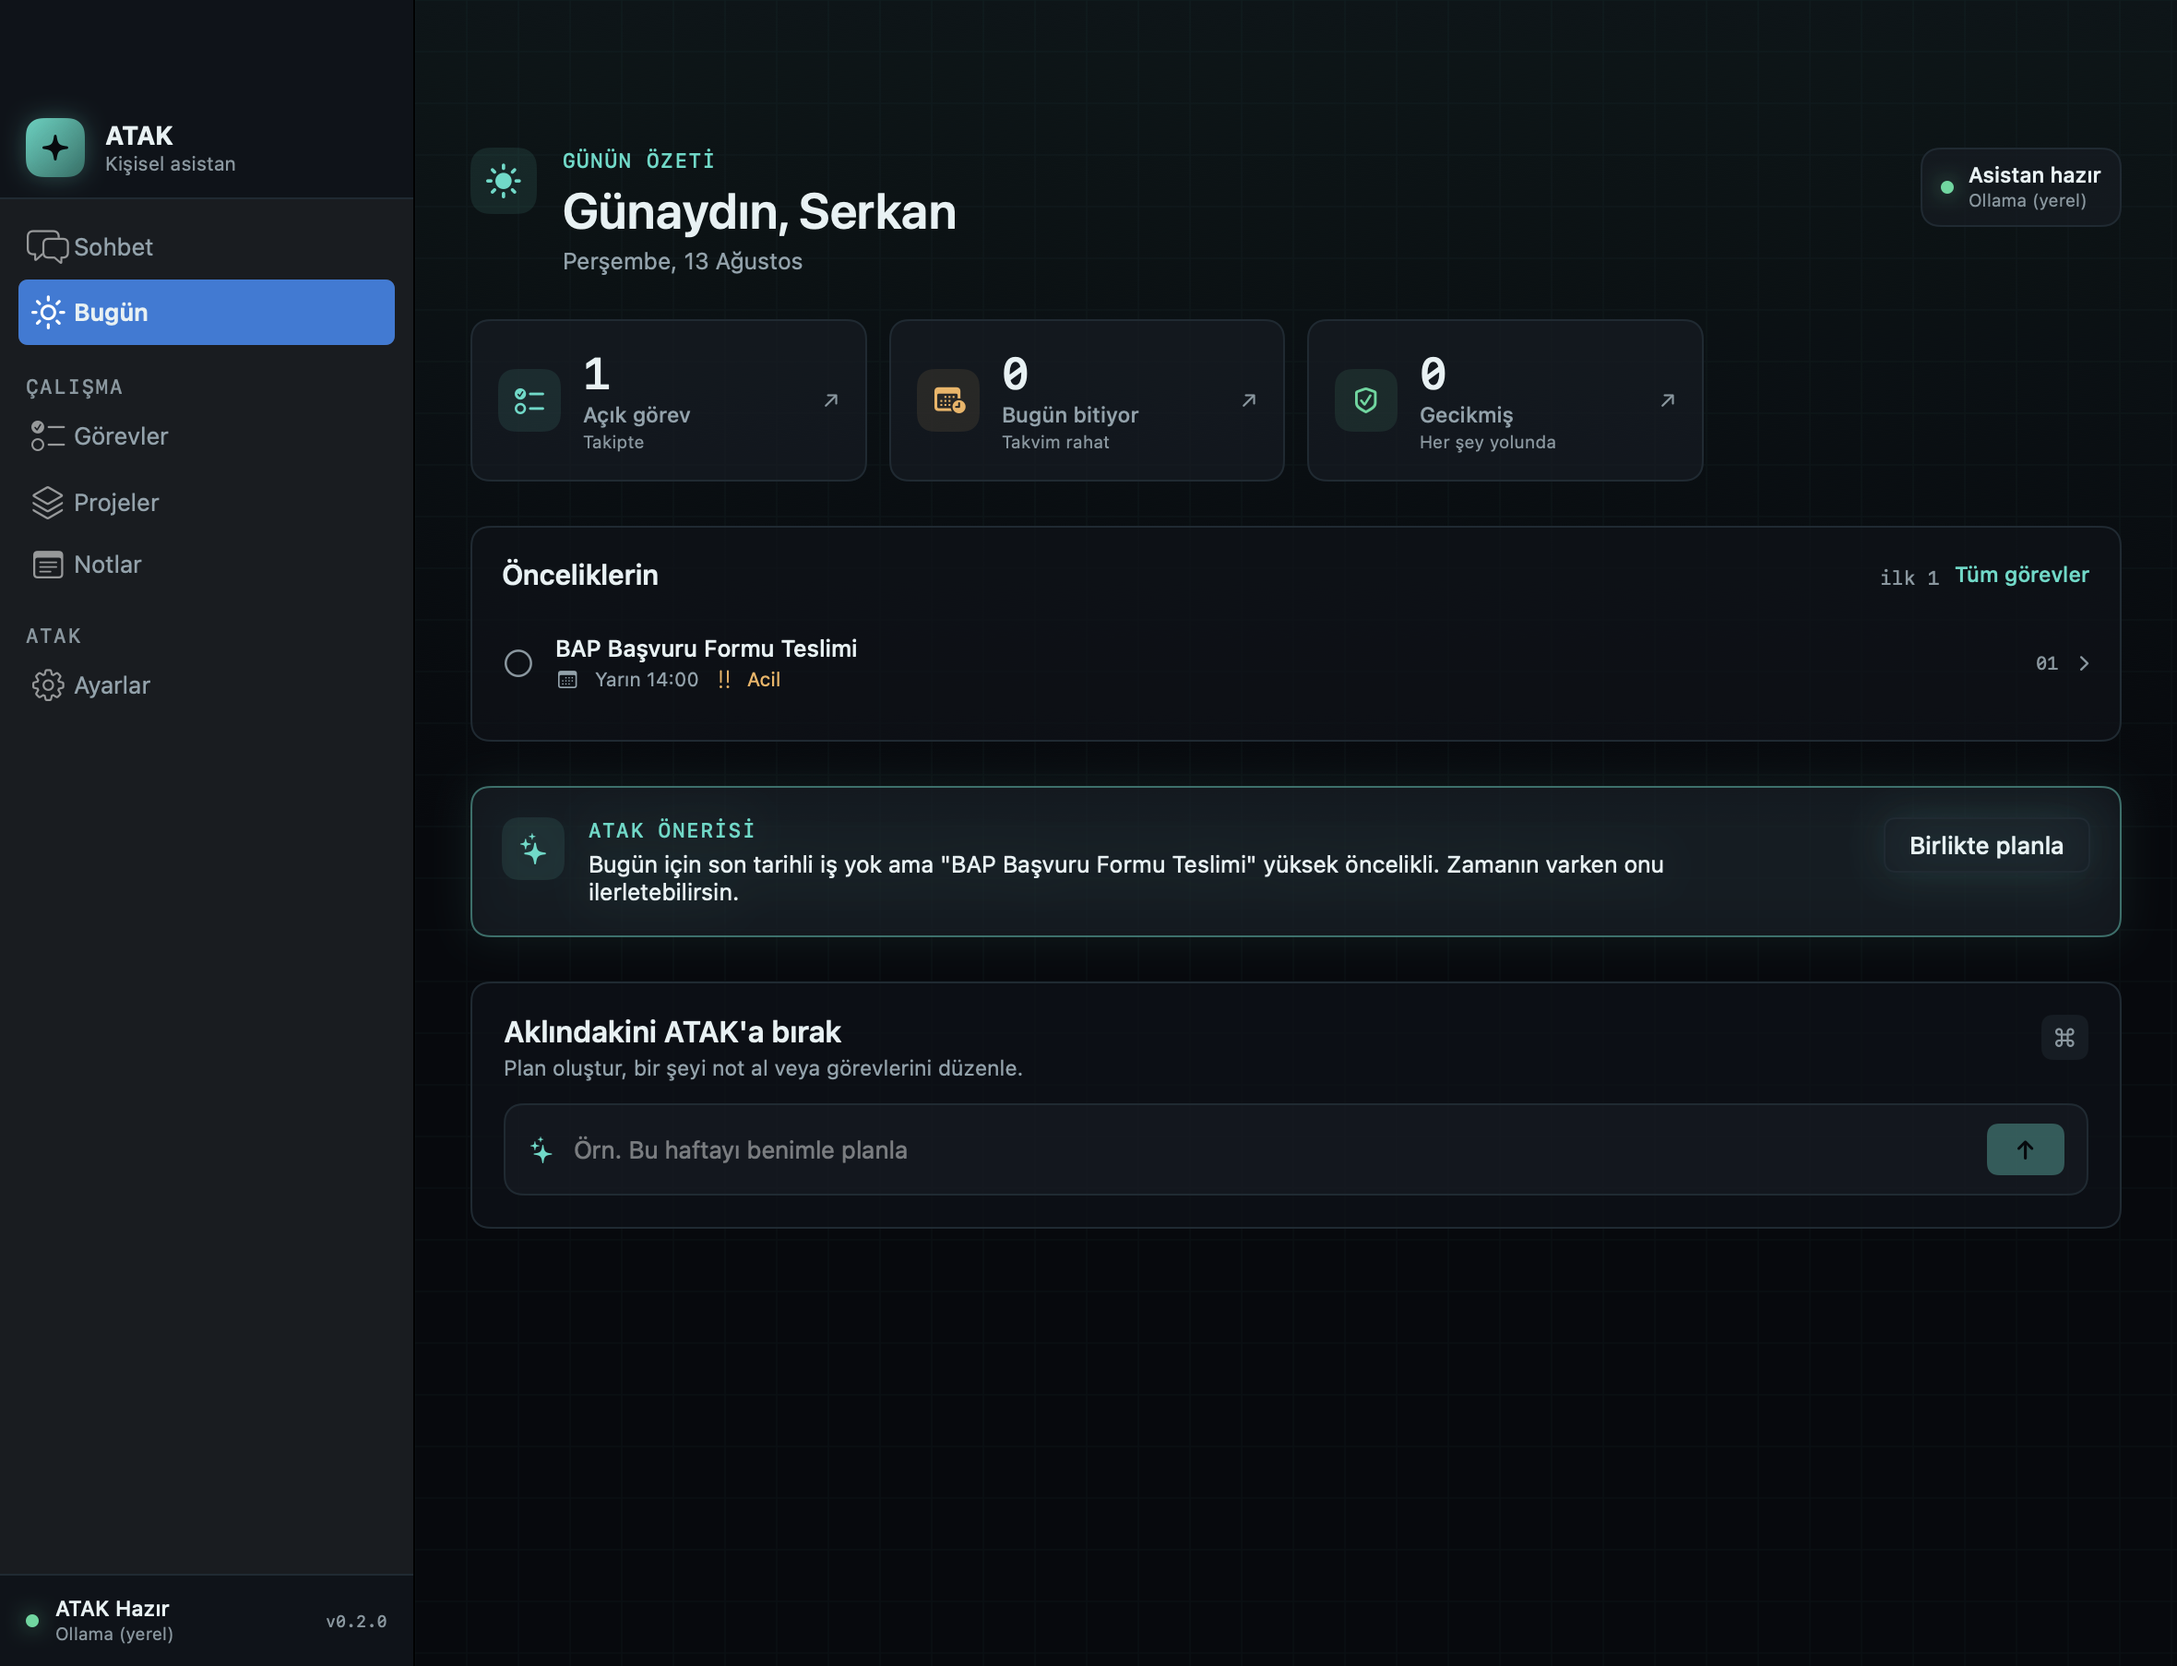
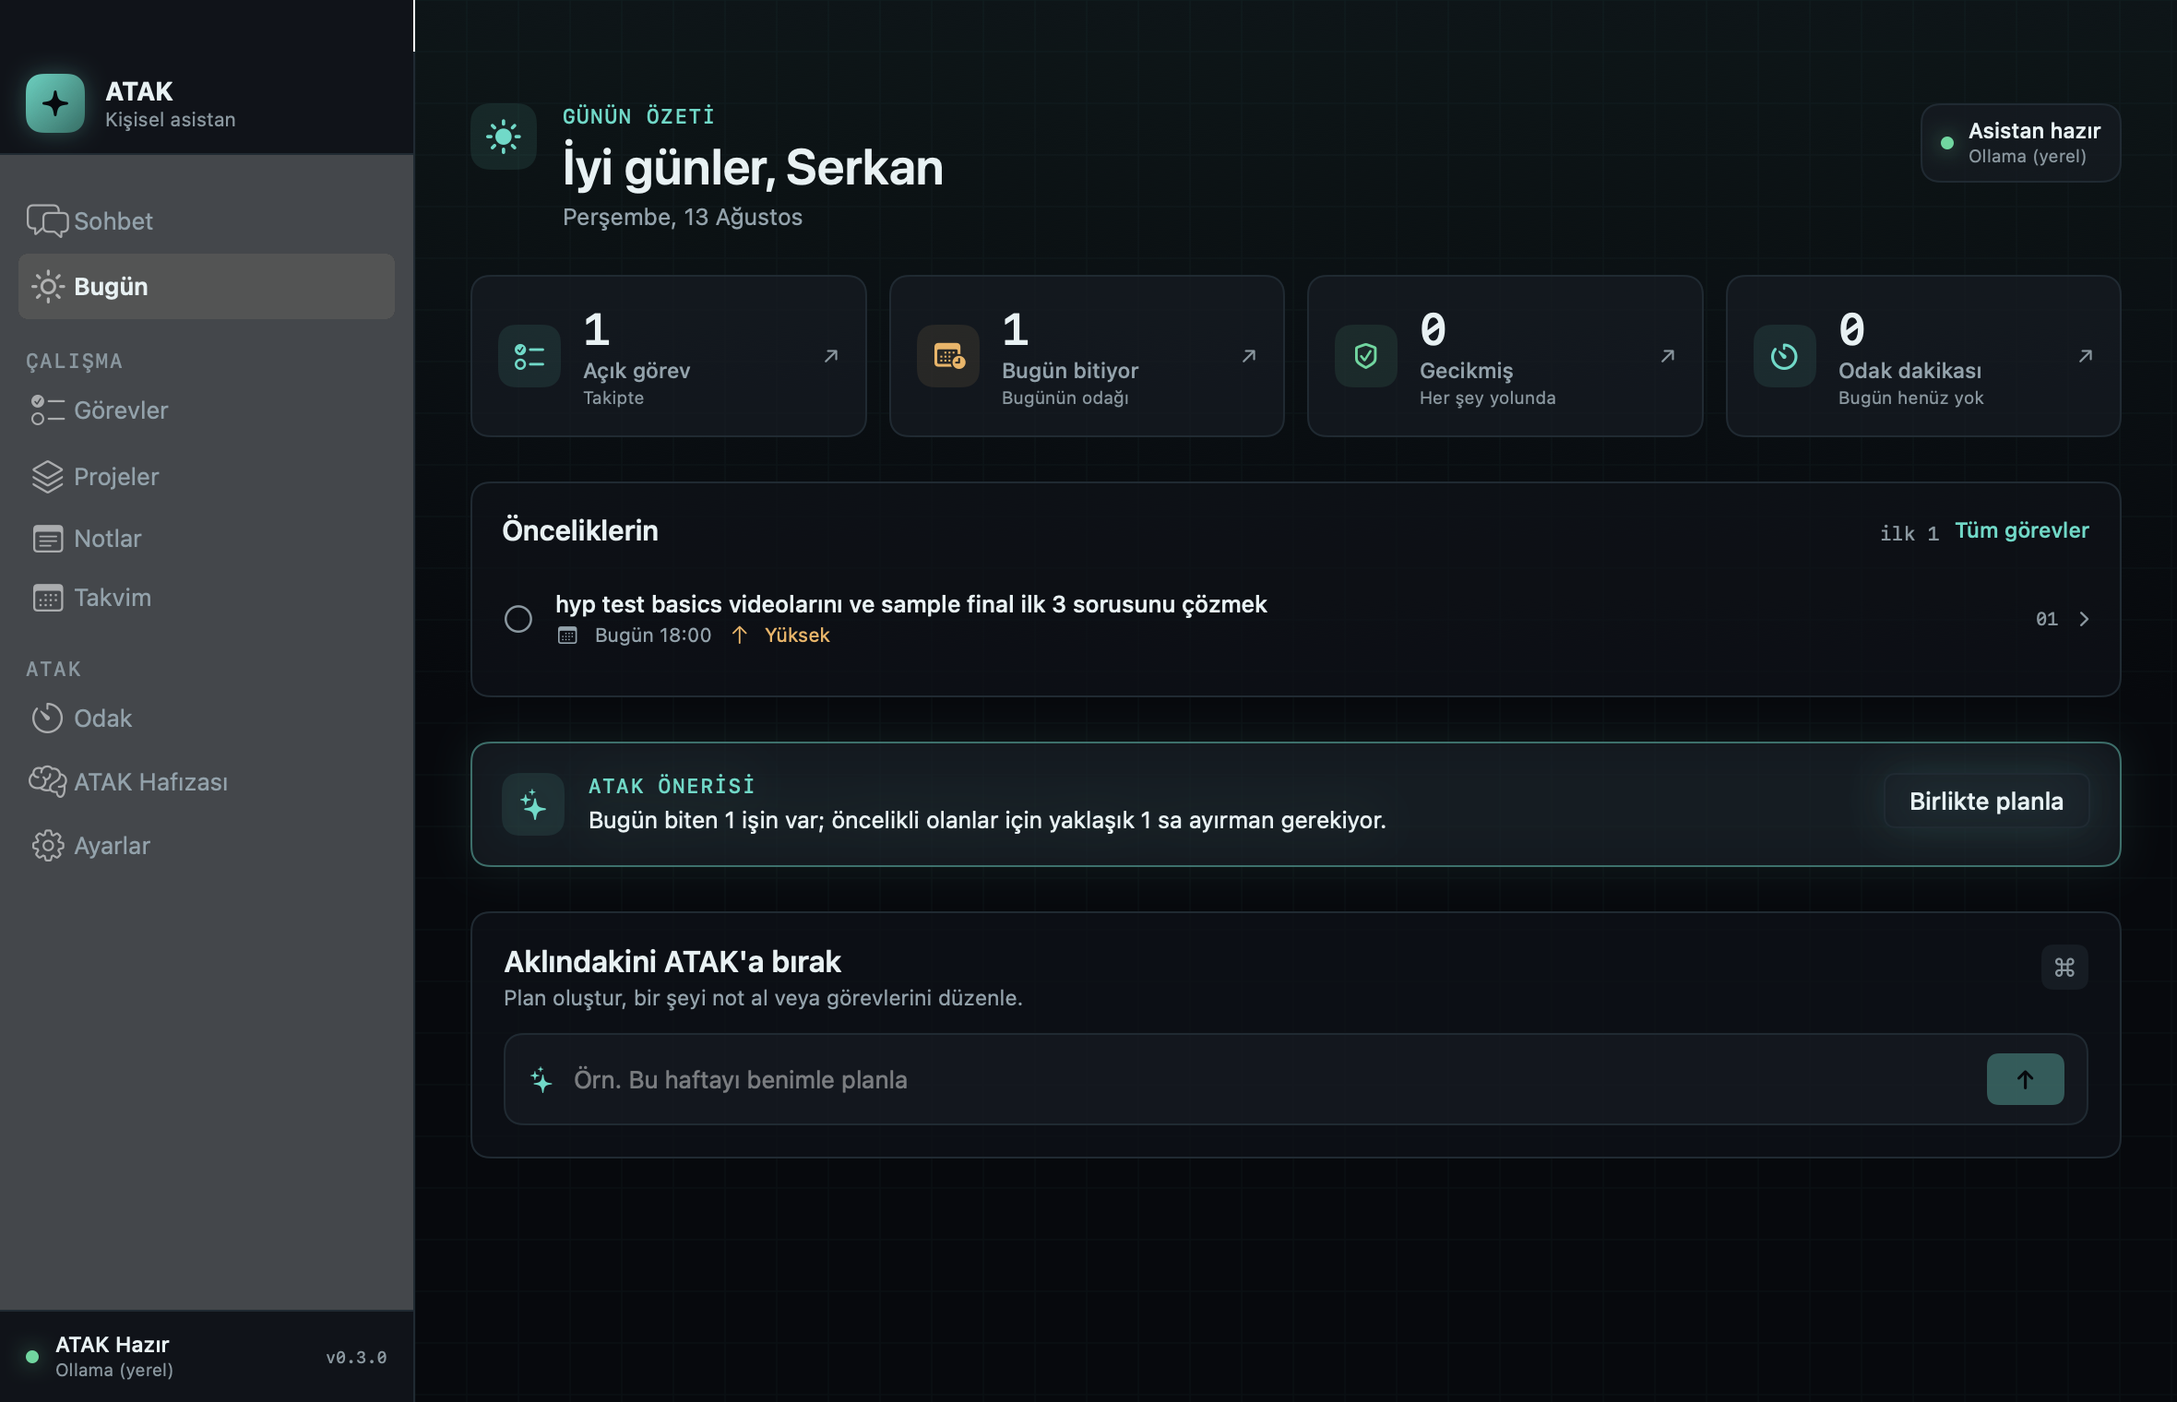
README v0.3: risk/onay hattı, hafıza ve yeni ekran görüntüleri
- Risk yükseltme kuralları ve onay kartının neden İptal varsayılanlı
  olduğu README'de; depoyu açan biri güvenlik tasarımını kodu okumadan
  görüyor.
- Uzun vadeli hafızanın sohbet geçmişinden farkı ve neden tamamının değil
  sınırlı bir özetinin sistem promptuna girdiği anlatıldı.
- Mimari şemasına RiskEngine/ConsentGate katmanı ve EventKit eklendi.
- Araç listesi 6'dan 12'ye, test sayısı 156'ya güncellendi.
- Ekran görüntüleri v0.3 ile yenilendi; yakalama dizisi artık takvim,
  odak ve hafıza ekranlarını da alıyor. Yardım metnindeki ⌘1–⌘6 aralığı
  ⌘1–⌘9 olarak düzeltildi.
- v0.2 durum metni geçmiş kayıt olarak <details> içine alındı.

diff --git a/Sources/ATAKCore/App/ATAKAppDelegate.swift b/Sources/ATAKCore/App/ATAKAppDelegate.swift
@@ -396,7 +396,8 @@ public final class ATAKAppDelegate: NSObject, NSApplicationDelegate {
             try? await Task.sleep(for: .milliseconds(500))
 
             for section in [
-                AppSection.chat, .dashboard, .tasks, .projects, .notes, .settings,
+                AppSection.chat, .dashboard, .tasks, .projects, .notes,
+                .calendar, .focus, .memory, .settings,
             ] {
                 environment.router.select(section)
                 try? await Task.sleep(for: .milliseconds(450))
@@ -422,7 +423,7 @@ public final class ATAKAppDelegate: NSObject, NSApplicationDelegate {
         alert.alertStyle = .informational
         alert.messageText = "ATAK Yardım"
         alert.informativeText = """
-        Bölümler arasında ⌘1–⌘6 ile geçebilir, ana pencereyi ⌘N veya ⌘0 ile yeniden açabilirsin.
+        Bölümler arasında ⌘1–⌘9 ile geçebilir, ana pencereyi ⌘N veya ⌘0 ile yeniden açabilirsin.
 
         ATAK pencere kapalıyken menü çubuğundaki simgeden çalışmaya devam eder.
         """

diff --git a/README.md b/README.md
@@ -2,16 +2,20 @@
 
 A native macOS personal AI assistant, built **without Xcode** — pure SwiftPM, zero third‑party dependencies.
 
-ATAK is more than a chat wrapper. It combines AI chat with tasks, projects and searchable notes, and can safely perform these actions through its built-in tools. Ask it to "add a gym task for tomorrow at 6pm" and it creates the task, then verifies the write before claiming success.
+ATAK is more than a chat wrapper. It combines AI chat with tasks, projects, searchable notes, your calendar, a focus timer and a long-term memory — and it performs those actions itself through built-in tools. Ask it to "add a gym task for tomorrow at 6pm" and it creates the task, then verifies the write before claiming success. Ask it to put something in your calendar and it stops to ask first.
 
 > Türkçe konuşan bir asistan olarak tasarlandı; arayüz ve sistem promptu Türkçedir.
 > Mimari dokümanı: [`docs/MIMARI.md`](docs/MIMARI.md) (Türkçe, 16 bölüm).
 
 ![ATAK dashboard](docs/screenshots/dashboard.png)
 
-| Chat with tool use | Provider settings |
+| Chat with tool use | Memory + audit log |
 |---|---|
-| ![Chat](docs/screenshots/chat.png) | ![Settings](docs/screenshots/settings.png) |
+| ![Chat](docs/screenshots/chat.png) | ![Memory](docs/screenshots/memory.png) |
+
+| Focus timer | Provider settings |
+|---|---|
+| ![Focus](docs/screenshots/focus.png) | ![Settings](docs/screenshots/settings.png) |
 
 <sub>Screenshots are rendered by the app itself — <code>ATAK_SHOT=&lt;dir&gt; open -a ATAK</code> adds a capture menu item that draws the window's own view hierarchy to PNG. No Screen Recording permission involved, and no desktop or cursor bleeding into the frame. See <a href="Sources/ATAKCore/Utilities/WindowCapture.swift"><code>WindowCapture.swift</code></a>.</sub>
 
@@ -39,9 +43,11 @@ Views + ViewModels          SwiftUI, reusable components, two themes
         │
 AgentRuntime                budgeted tool loop, cancellable
         │
-AI providers · Local tools · Voice
+RiskEngine · ConsentGate    risk classification, user approval, undo
         │
-SQLite (WAL + FTS5) · Keychain · Speech · AVFoundation
+AI providers · Tools · Memory · Calendar · Focus · Voice
+        │
+SQLite (WAL + FTS5) · Keychain · EventKit · Speech · AVFoundation
 ```
 
 **Concurrency:** Swift 6 strict mode. The database is an `actor`; rows never escape it as reference types — repositories return `Sendable` structs.
@@ -70,9 +76,33 @@ The lesson generalised into a rule for the rest of the project: on an integratio
 
 Budgeted and cancellable (5 iterations, 8 tool calls, 120 s). When the budget is hit, ATAK reports how far it got instead of failing silently. Tools available today:
 
-`create_task` · `list_tasks` · `complete_task` · `create_note` · `search_notes` · `create_project`
+`create_task` · `list_tasks` · `complete_task` · `create_note` · `search_notes` · `create_project` · `remember` · `recall` · `query_calendar` · `find_free_time` · `create_calendar_event` · `start_focus_timer`
 
 Every write is read back before ATAK claims it succeeded.
+
+### Risk, consent and undo
+
+Every tool call runs the same pipeline — **safety card → risk → consent → execute → verify → audit log** — and the tools themselves know nothing about it. Security decisions live in one place.
+
+Risk is not a constant. It escalates with context:
+
+```
+base risk from the tool's safety card
++1  if the action is irreversible
++1  if it touches more than 5 records
++1  if data leaves the device
++1  if the input came from content ATAK read, not from the user
+```
+
+That last rule is the real defence against prompt injection: anything derived from a document, page or email is asked about, even when the tool itself is low-risk. Memory writes from read content are rejected outright at the service layer — a planted "fact" would otherwise live in the system prompt forever.
+
+Consent cards default to **Cancel**, bind Return to Cancel, and never offer "don't ask again". If no gate is wired up, the default is **deny** — a misconfiguration should not become a silent security hole.
+
+Anything ATAK does is written to `assistant_action`, and the medium-risk tools that run without asking are undoable in one click. The chat transcript is the model's *claim*; that table is what actually ran.
+
+### Long-term memory
+
+Separate from chat history: the window forgets, memory does not. A bounded digest (pinned first, then most used) is prepended to the system prompt rather than the whole store — otherwise memory quietly inflates the token bill on every request. Everything ATAK knows about you is visible and deletable on one screen, and a new value for an existing key supersedes the old one instead of deleting it: how the memory changed is information too.
 
 ### Turkish full‑text search
 
@@ -92,7 +122,7 @@ Requires macOS 14+, Swift 6.0+, Command Line Tools. **No Xcode needed.**
 
 ```bash
 make run       # build, bundle, ad-hoc sign, launch
-make test      # 114 tests
+make test      # 156 tests
 make smoke     # isolated headless start-up + DB + FTS5 round trip
 make install   # copy to /Applications
 ```
@@ -103,9 +133,16 @@ Data lives in a single file: `~/Library/Application Support/ATAK/atak.db`.
 
 ## Status
 
-**v0.2 — professional foundation.** The default Minimal interface now has a consistent three-column chat, actionable dashboard, polished empty/loading/error states, provider onboarding, menu-bar lifecycle and a real application icon. Chat with tool use, tasks, projects, notes with FTS5 search, opt-in voice, two themes and multi-provider AI are working. Privacy Mode keeps both messages and conversation metadata memory-only; note autosave survives fast selection changes. Cloud credentials are restricted to official HTTPS endpoints, Ollama overrides are validated, and local database files use private permissions. 114 tests are green.
+**v0.3 — the action engine.** Risk classification, consent gate, audit log and undo are live, and the schema's long-dormant tables (`assistant_action`, `memory_item`, `timer_session`) are finally in use. Calendar (EventKit) reads freely and writes only with consent; long-term memory, and a focus timer with persisted sessions round out the release. 156 tests are green.
 
-Next roadmap: explicit consent/audit/undo for higher-risk tools, stricter end-to-end network deadlines, calendar (EventKit), documents/PDF, focus timer, long-term memory UI, automations and broader UI/provider test coverage. See [`docs/MIMARI.md`](docs/MIMARI.md) §15.
+<details>
+<summary>v0.2 — professional foundation</summary>
+
+**v0.2.** The default Minimal interface now has a consistent three-column chat, actionable dashboard, polished empty/loading/error states, provider onboarding, menu-bar lifecycle and a real application icon. Chat with tool use, tasks, projects, notes with FTS5 search, opt-in voice, two themes and multi-provider AI are working. Privacy Mode keeps both messages and conversation metadata memory-only; note autosave survives fast selection changes. Cloud credentials are restricted to official HTTPS endpoints, Ollama overrides are validated, and local database files use private permissions.
+
+</details>
+
+Next roadmap: documents/PDF reading (with the untrusted-content path the risk engine already anticipates), Reminders sync, stricter end-to-end network deadlines, automations, and broader UI/provider test coverage. See [`docs/MIMARI.md`](docs/MIMARI.md) §15.
 
 ## License
 
